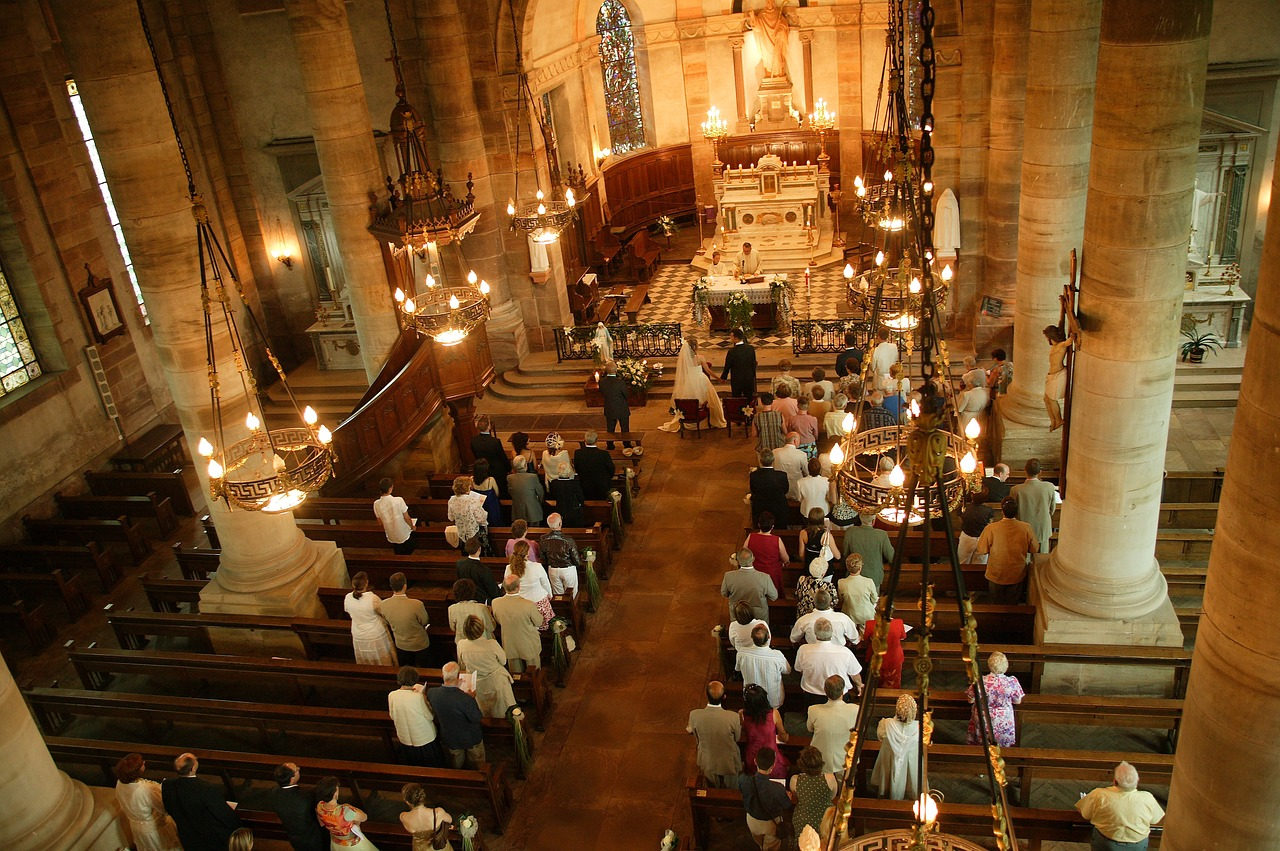
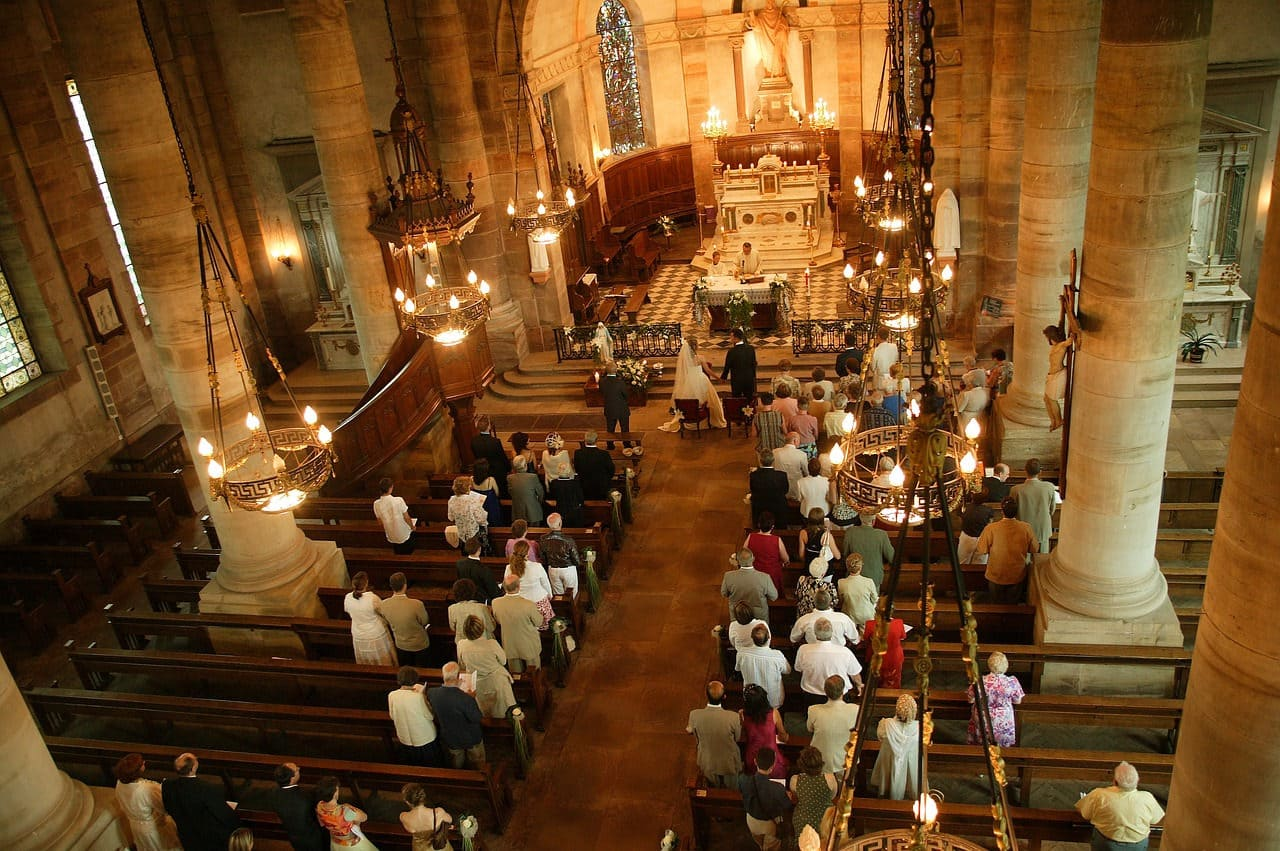
resize image, preact, link-prefetch

diff --git a/src/pages/about.js b/src/pages/about.js
@@ -81,22 +81,22 @@ export const query = graphql`
   query {
     aboutBcg: file(relativePath: { eq: "band.jpg" }) {
       childImageSharp {
-        fluid(quality: 90, maxWidth: 4160) {
+        fluid {
           ...GatsbyImageSharpFluid_withWebp
         }
       }
     }
     about: file(relativePath: { eq: "about.jpg" }) {
       childImageSharp {
-        fluid(maxWidth: 600) {
-          ...GatsbyImageSharpFluid
+        fluid {
+          ...GatsbyImageSharpFluid_withWebp
         }
       }
     }
     crkva: file(relativePath: { eq: "crkva.jpg" }) {
       childImageSharp {
-        fluid(maxWidth: 600) {
-          ...GatsbyImageSharpFluid
+        fluid {
+          ...GatsbyImageSharpFluid_withWebp
         }
       }
     }

diff --git a/src/components/Home/workCategory.js b/src/components/Home/workCategory.js
@@ -3,7 +3,7 @@ import Title from "../title"
 import { useStaticQuery, graphql } from "gatsby"
 import AniLink from "gatsby-plugin-transition-link/AniLink"
 import styles from "../../css/workCategory.module.css"
-import Work from "../work"
+import Work from "../Gallery/work"
 
 const getWorks = graphql`
   query {
@@ -14,9 +14,9 @@ const getWorks = graphql`
           slug
           prefiks
           category
-          images {
+          heroImage {
             fluid {
-              ...GatsbyContentfulFluid
+              ...GatsbyContentfulFluid_withWebp
             }
           }
         }

diff --git a/src/templates/workTemplate.js b/src/templates/workTemplate.js
@@ -116,21 +116,13 @@ const WorkTemplate = ({ data }) => {
 
 export const query = graphql`
   query($slug: String!) {
-    poz: file(relativePath: { eq: "167.jpg" }) {
-      childImageSharp {
-        fluid {
-          ...GatsbyImageSharpFluid
-        }
-      }
-    }
-
     work: contentfulWork(slug: { eq: $slug }) {
       prefiks
       category
       main
       images {
         fluid {
-          ...GatsbyContentfulFluid
+          ...GatsbyContentfulFluid_withWebp
         }
       }
       opis {

diff --git a/src/pages/index.js b/src/pages/index.js
@@ -34,14 +34,14 @@ export const query = graphql`
   query {
     defaultBcg: file(relativePath: { eq: "marriage.jpg" }) {
       childImageSharp {
-        fluid(quality: 90, maxWidth: 4160) {
+        fluid {
           ...GatsbyImageSharpFluid_withWebp_noBase64
         }
       }
     }
     aboutBcg: file(relativePath: { eq: "patern.jpg" }) {
       childImageSharp {
-        fluid(quality: 90, maxWidth: 4160) {
+        fluid {
           ...GatsbyImageSharpFluid_withWebp
         }
       }

diff --git a/src/components/Gallery/work.js b/src/components/Gallery/work.js
@@ -1,11 +1,11 @@
 import React from "react"
-import styles from "../css/work.module.css"
+import styles from "../../css/work.module.css"
 import Image from "gatsby-image"
 import AniLink from "gatsby-plugin-transition-link/AniLink"
 
 const work = ({ work }) => {
-  const { slug, prefiks, category, images } = work
-  let mainImage = images[0].fluid
+  const { slug, prefiks, category, heroImage } = work
+  let mainImage = heroImage.fluid
 
   return (
     <article className={styles.work}>

diff --git a/src/pages/gallery.js b/src/pages/gallery.js
@@ -22,14 +22,14 @@ export const query = graphql`
   query {
     roses: file(relativePath: { eq: "contact.jpg" }) {
       childImageSharp {
-        fluid(quality: 90, maxWidth: 4160) {
+        fluid {
           ...GatsbyImageSharpFluid_withWebp
         }
       }
     }
     paternBcg: file(relativePath: { eq: "patern.jpg" }) {
       childImageSharp {
-        fluid(quality: 90, maxWidth: 4160) {
+        fluid {
           ...GatsbyImageSharpFluid_withWebp
         }
       }

diff --git a/src/pages/blog.js b/src/pages/blog.js
@@ -37,14 +37,14 @@ export const query = graphql`
   query {
     blog: file(relativePath: { eq: "bouq.jpg" }) {
       childImageSharp {
-        fluid(quality: 90, maxWidth: 4160) {
+        fluid {
           ...GatsbyImageSharpFluid_withWebp
         }
       }
     }
     rosBcg: file(relativePath: { eq: "ros.png" }) {
       childImageSharp {
-        fluid(quality: 90, maxWidth: 4160) {
+        fluid {
           ...GatsbyImageSharpFluid_withWebp
         }
       }

diff --git a/src/components/Blogs/blogCard.js b/src/components/Blogs/blogCard.js
@@ -4,8 +4,8 @@ import Image from "gatsby-image"
 import AniLink from "gatsby-plugin-transition-link/AniLink"
 
 const blogCard = ({ work }) => {
-  const { slug, title, snipet, images } = work
-  let mainImage = images[0].fluid
+  const { slug, title, snipet, heroImage } = work
+  let mainImage = heroImage.fluid
   return (
     <article className={styles.work}>
       <div className={styles.imgContainer}>

diff --git a/src/components/Gallery/gallerys.js b/src/components/Gallery/gallerys.js
@@ -11,9 +11,9 @@ const getWorks = graphql`
           slug
           prefiks
           category
-          images {
+          heroImage {
             fluid {
-              ...GatsbyContentfulFluid
+              ...GatsbyContentfulFluid_withWebp
             }
           }
         }

diff --git a/src/components/Blogs/blogs.js b/src/components/Blogs/blogs.js
@@ -11,9 +11,9 @@ const getBlogs = graphql`
           slug
           title
           snipet
-          images {
+          heroImage {
             fluid {
-              ...GatsbyContentfulFluid
+              ...GatsbyContentfulFluid_withWebp
             }
           }
         }

diff --git a/src/components/Gallery/galleryList.js b/src/components/Gallery/galleryList.js
@@ -1,6 +1,6 @@
 import React, { Component } from "react"
 import Title from "../title"
-import Work from "../work"
+import Work from "./work"
 import styles from "../../css/workCategory.module.css"
 
 export default class galleryList extends Component {

diff --git a/gatsby-config.js b/gatsby-config.js
@@ -26,6 +26,8 @@ module.exports = {
         path: `${__dirname}/src/images`,
       },
     },
+    `gatsby-plugin-preload-link-crossorigin`,
+    `gatsby-plugin-preact`,
     {
       resolve: `gatsby-source-contentful`,
       options: {
